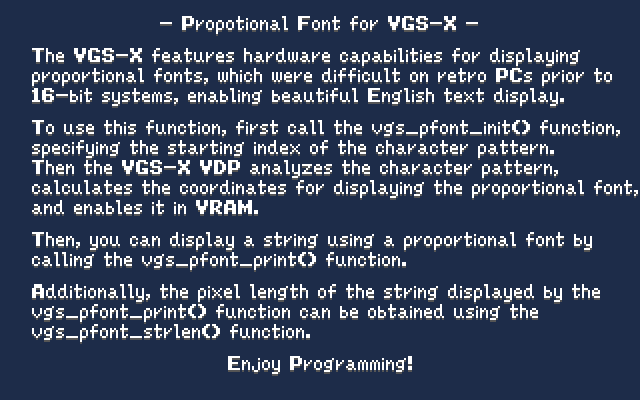
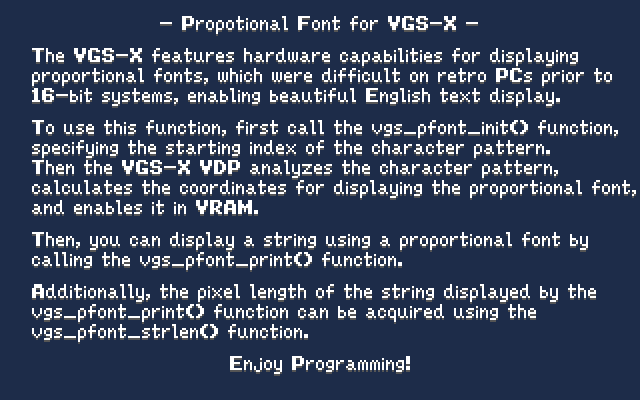
adjust font and text

diff --git a/example/05_pro-font/program.c b/example/05_pro-font/program.c
@@ -39,7 +39,7 @@ int main(int argc, char* argv[])
     y += 16;
     vgs_pfont_print(0, lx, y, 0, 0, "Additionally, the pixel length of the string displayed by the");
     y += 10;
-    vgs_pfont_print(0, lx, y, 0, 0, "vgs_pfont_print() function can be obtained using the");
+    vgs_pfont_print(0, lx, y, 0, 0, "vgs_pfont_print() function can be acquired using the");
     y += 10;
     vgs_pfont_print(0, lx, y, 0, 0, "vgs_pfont_strlen() function.");
 
